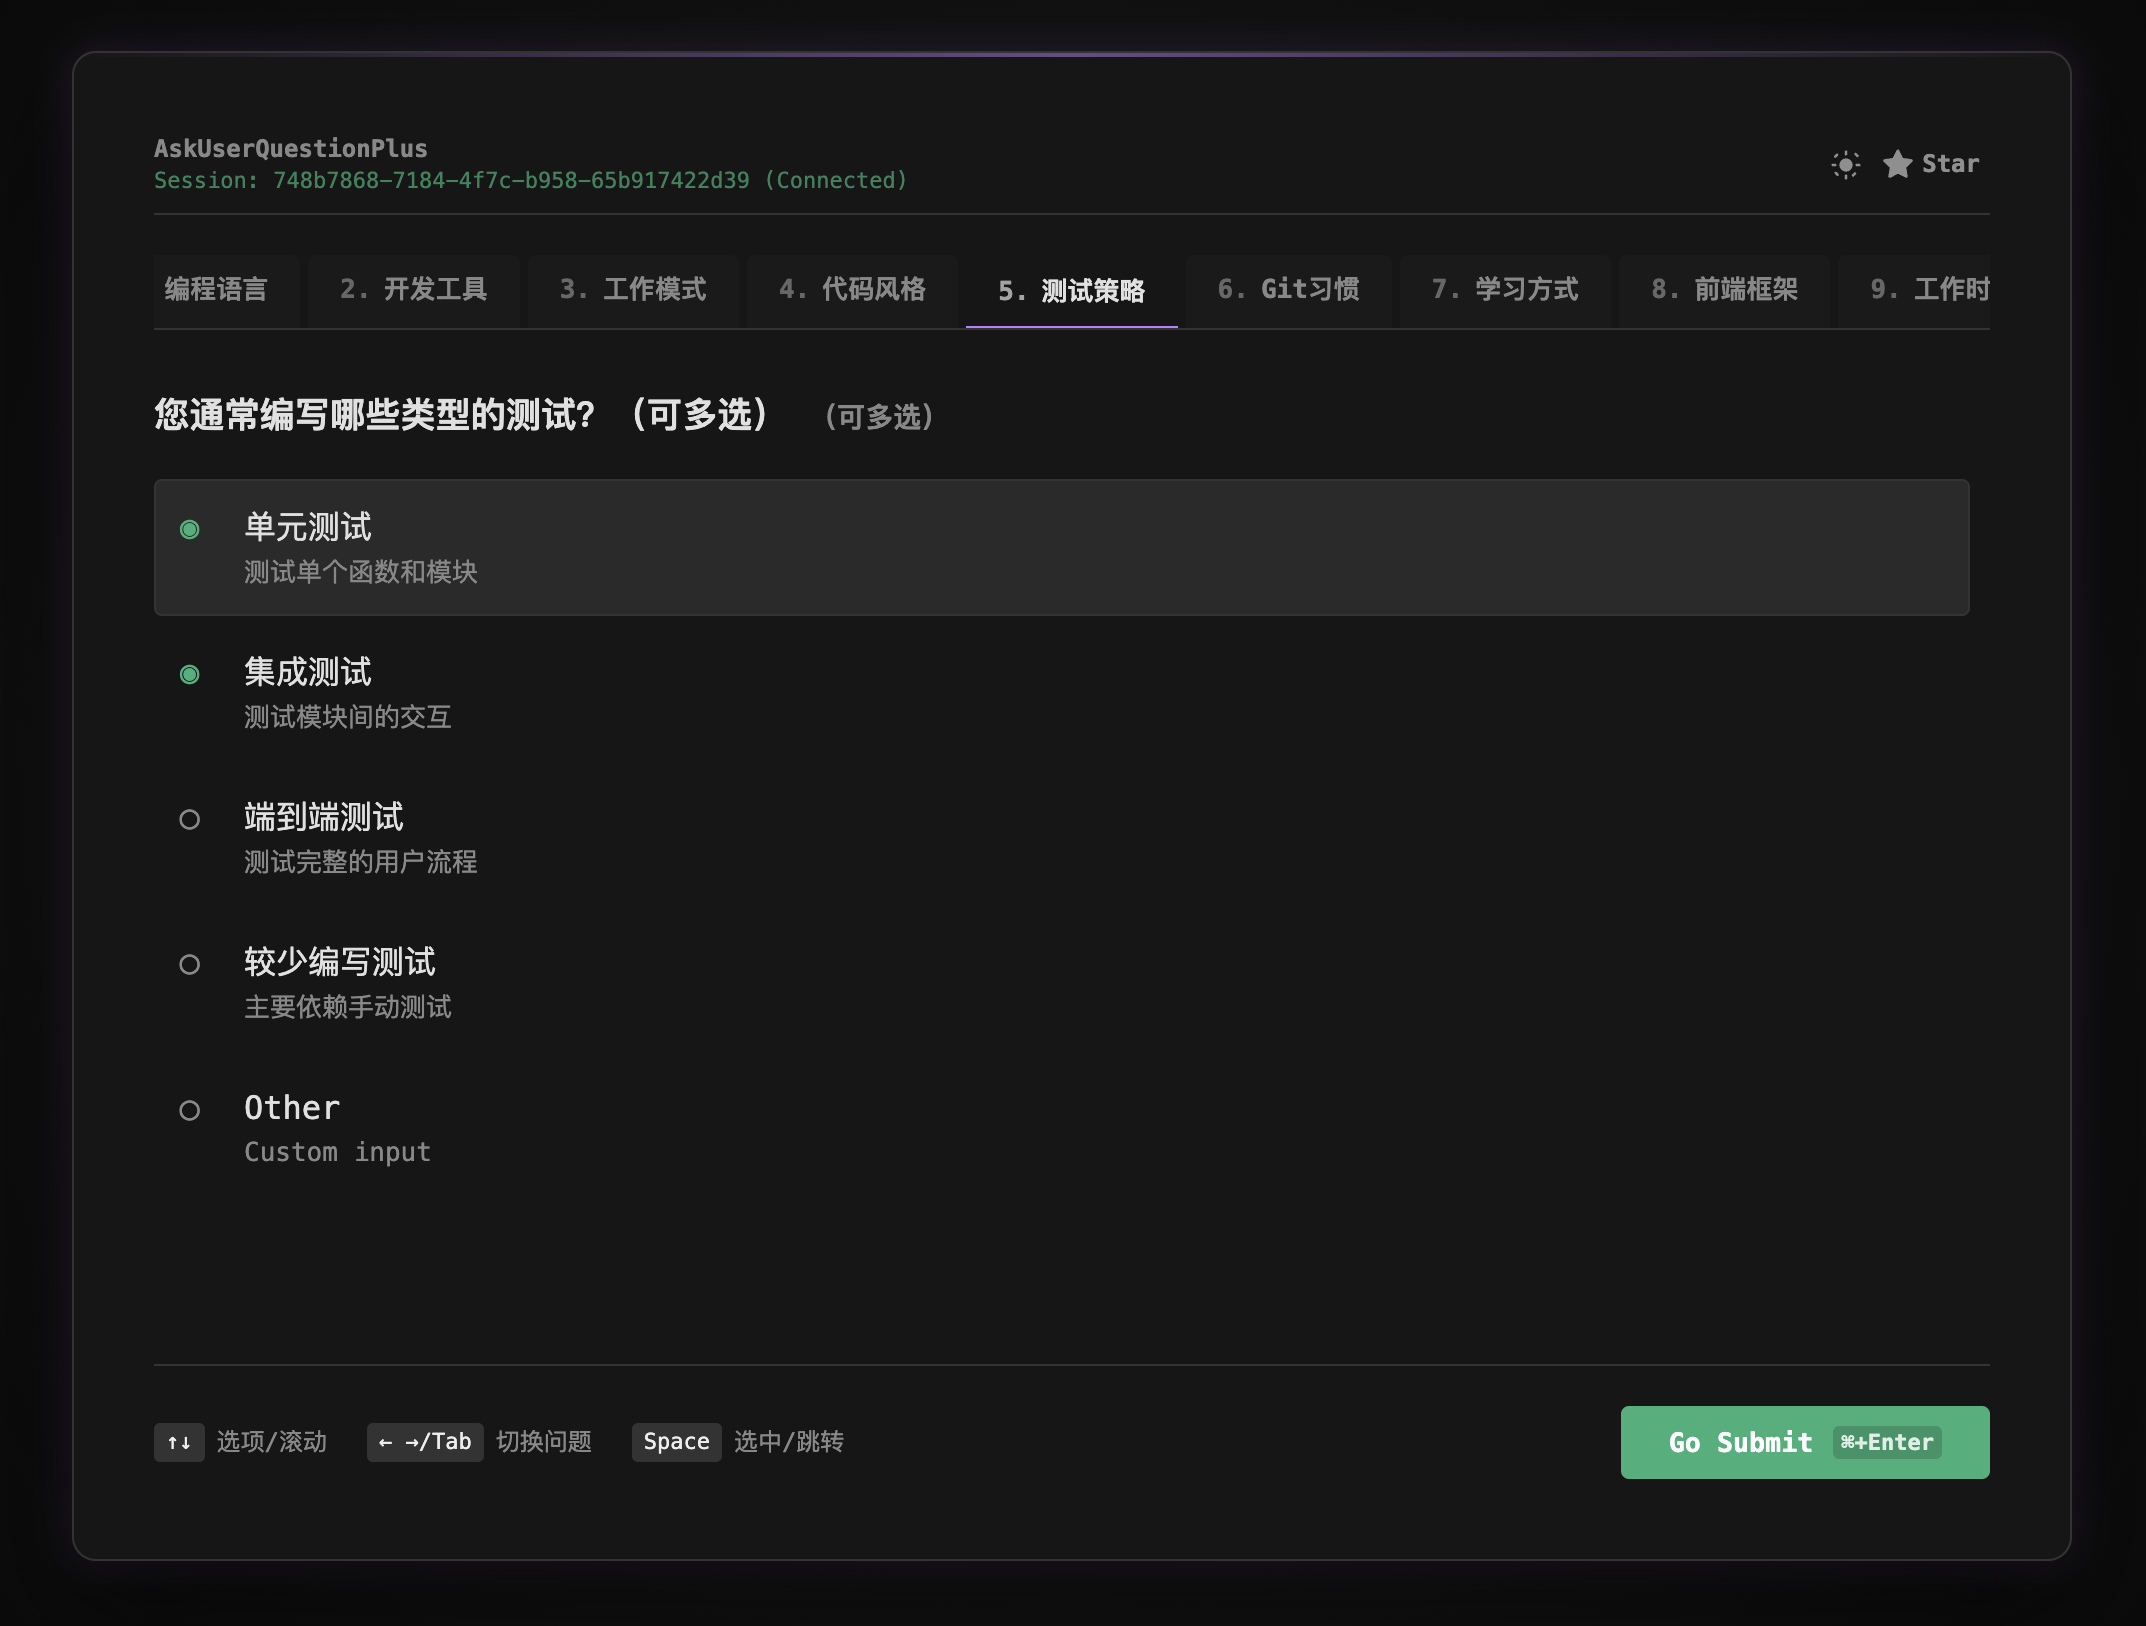
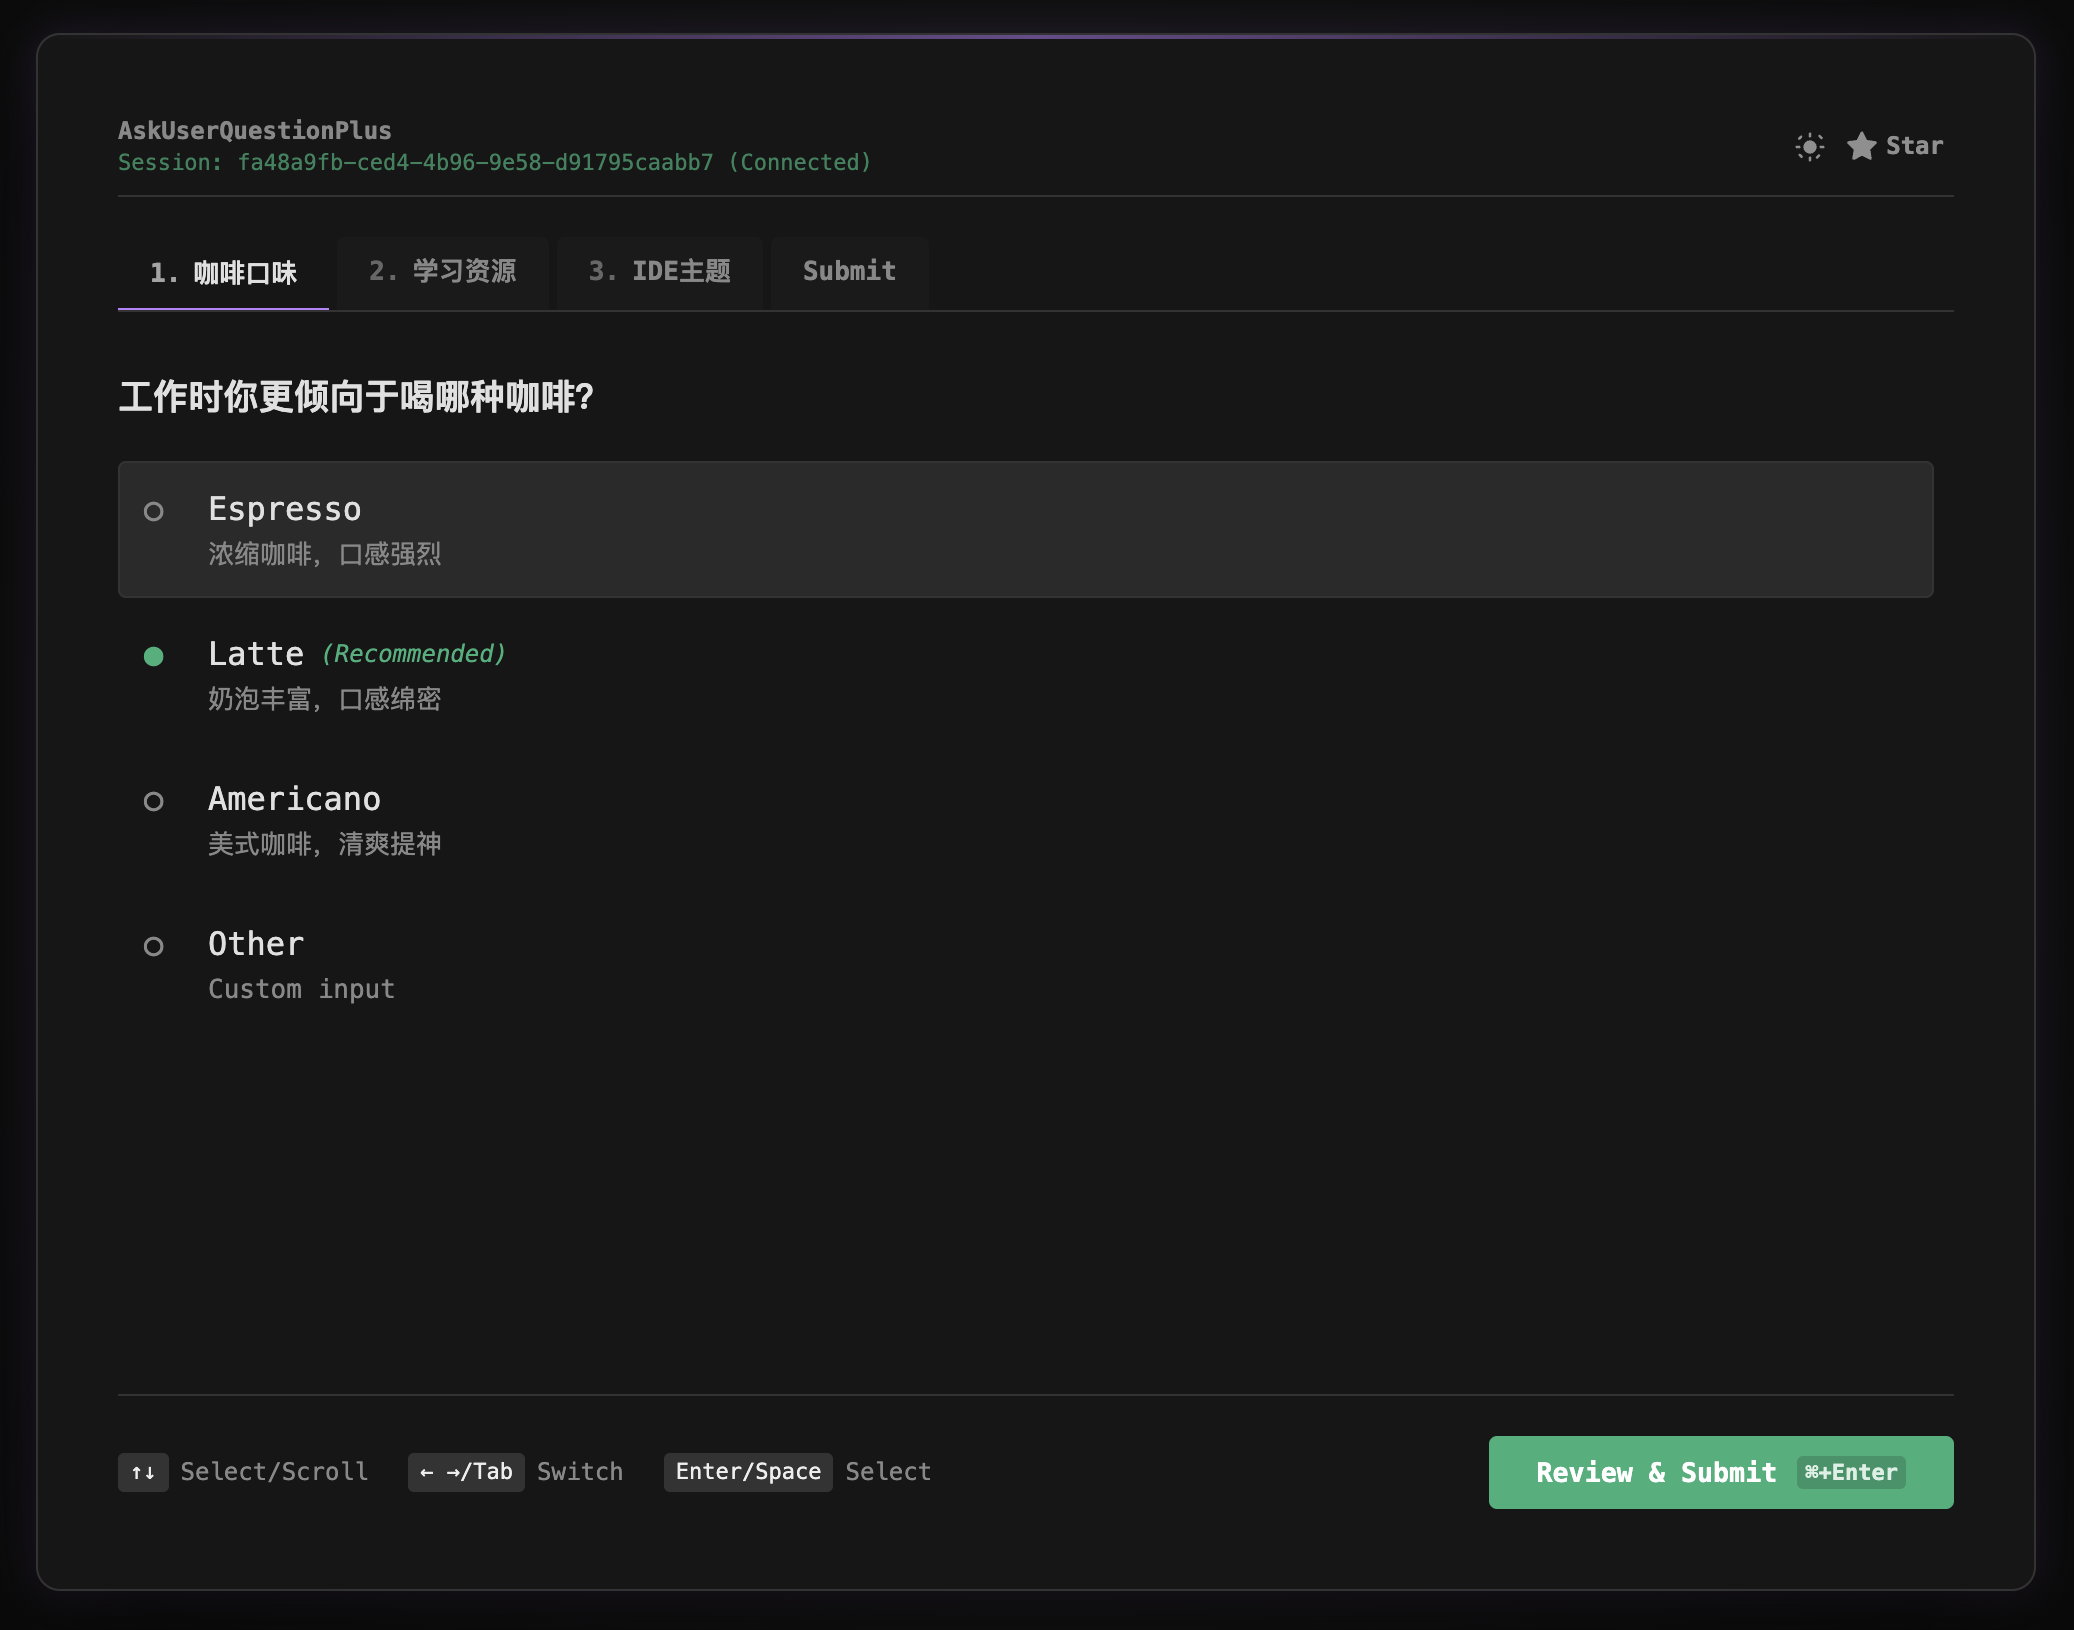
update

diff --git a/public/index.html b/public/index.html
@@ -1,5 +1,5 @@
 <!DOCTYPE html>
-<html lang="zh-CN">
+<html lang="en">
   <head>
     <meta charset="UTF-8" />
     <meta name="viewport" content="width=device-width, initial-scale=1.0" />
@@ -545,7 +545,7 @@
 
           <!-- GitHub Star -->
           <a
-            href="https://github.com/changjunjie/ask-user-question-plus"
+            href="https://github.com/JoJoJotarou/AskUserQuestionPlus"
             target="_blank"
             class="icon-btn"
             title="Star on GitHub"
@@ -575,10 +575,10 @@
       <div class="footer">
         <div class="key-hints">
           <div class="key-hint-item">
-            <span class="key-tag">↑↓</span> 选项/滚动
+            <span class="key-tag">↑↓</span> Select/Scroll
           </div>
           <div class="key-hint-item">
-            <span class="key-tag">← →/Tab</span> 切换问题
+            <span class="key-tag">← →/Tab</span> Switch
           </div>
           <div class="key-hint-item">
             <span class="key-tag">Enter/Space</span>
@@ -586,7 +586,7 @@
           </div>
         </div>
         <button class="submit-btn" id="submit-all" disabled>
-          Go Submit
+          Review & Submit
           <span class="submit-shortcut" id="submit-shortcut-text">⌘+Enter</span>
         </button>
       </div>
@@ -799,7 +799,7 @@
                                 ${opt.label}
                                 ${
                                   opt.recommended
-                                    ? '<span class="recommended-tag">（推荐）</span>'
+                                    ? '<span class="recommended-tag">(Recommended)</span>'
                                     : ""
                                 }
                             </div>
@@ -833,7 +833,7 @@
                     <div class="question-header">
                         <span class="q-text">${q.text}${
           q.type === "multiple"
-            ? ' <span style="color:var(--dim-color); font-size:0.8em">（可多选）</span>'
+            ? ' <span style="color:var(--dim-color); font-size:0.8em">(Multi-select)</span>'
             : ""
         }</span>
                     </div>
@@ -875,7 +875,7 @@
 
           if (q.type === "single") {
             if (!ans.value) {
-              error = "未选择答案";
+              error = "No answer selected";
             } else {
               const opt = [
                 ...q.options,
@@ -885,7 +885,7 @@
                 displayValue = opt.label;
                 if (opt.isOther) {
                   if (!ans.otherText.trim()) {
-                    error = "请填写自定义内容";
+                    error = "Please provide custom input";
                     displayValue += ": [Empty]";
                   } else {
                     displayValue += `: ${ans.otherText}`;
@@ -895,7 +895,7 @@
             }
           } else {
             if (!ans.values || ans.values.length === 0) {
-              error = "请至少选择一项";
+              error = "Please select at least one option";
             } else {
               displayValue = ans.values
                 .map((v) => {
@@ -907,7 +907,7 @@
                   let label = opt.label;
                   if (opt.isOther) {
                     if (!ans.otherText.trim()) {
-                      error = "请填写自定义内容";
+                      error = "Please provide custom input";
                       label += ": [Empty]";
                     } else {
                       label += `: ${ans.otherText}`;
@@ -939,7 +939,7 @@
         container.innerHTML = `
                 <div class="question-block">
                     <div class="question-header">
-                        <span class="q-text">请检查您的回答，确认无误后提交！</span>
+                        <span class="q-text">Please review your answers before submitting!</span>
                     </div>
                     ${summaryHtml}
                 </div>
@@ -961,13 +961,13 @@
         const shortcutText = isMac ? "⌘+Enter" : "Ctrl+Enter";
 
         if (isReview) {
-          submitBtn.innerHTML = `Submt Answers <span class="submit-shortcut" id="submit-shortcut-text">${shortcutText}</span>`;
+          submitBtn.innerHTML = `Submit Answers <span class="submit-shortcut" id="submit-shortcut-text">${shortcutText}</span>`;
           submitBtn.disabled = !isValid;
-          if (spaceHint) spaceHint.textContent = "跳转";
+          if (spaceHint) spaceHint.textContent = "Jump";
         } else {
-          submitBtn.innerHTML = `Go Submit <span class="submit-shortcut" id="submit-shortcut-text">${shortcutText}</span>`;
+          submitBtn.innerHTML = `Review & Submit <span class="submit-shortcut" id="submit-shortcut-text">${shortcutText}</span>`;
           submitBtn.disabled = QUESTIONS_DATA.length === 0;
-          if (spaceHint) spaceHint.textContent = "选择";
+          if (spaceHint) spaceHint.textContent = "Select";
         }
       }
 
@@ -1091,7 +1091,7 @@
           submitBtn.disabled = true;
 
           setTimeout(() => {
-            alert("提交成功！即将关闭...");
+            alert("Submitted successfully! Closing...");
             submitBtn.textContent = "DONE";
             window.close();
             document.body.innerHTML =

diff --git a/src/mcp-server.ts b/src/mcp-server.ts
@@ -35,43 +35,43 @@ export class MCPServerService {
       "ask_user_question_plus",
       {
         description:
-          "一个基于 MCP 的用户交互工具，用于向用户提出结构化问题并收集反馈。该工具支持单选、多选类型的问题，允许标记推荐选项，并支持任意数量的问题与答案选项。前端会自动为每个问题添加 'Other'（自定义输入）选项，适用于复杂配置与决策流程。",
+          "An MCP-based user interaction tool for asking structured questions and collecting feedback. It supports single-choice and multiple-choice questions, marking recommended options, and flexible numbers of questions and options. An 'Other' (custom input) option is automatically added to each question, making it suitable for complex configuration and decision-making workflows.",
         inputSchema: {
           questions: z
             .array(
               z.object({
-                id: z.string().describe("问题唯一标识"),
+                id: z.string().describe("Unique identifier for the question"),
                 header: z
                   .string()
                   .max(12)
-                  .describe("问题标题（最多 12 个字符）"),
-                text: z.string().describe("问题文本"),
+                  .describe("Short header for the question tab (max 12 chars)"),
+                text: z.string().describe("Main text of the question"),
                 type: z
                   .enum(["single", "multiple"])
-                  .describe("问题类型：single（单选）或 multiple（多选）"),
+                  .describe("Question type: 'single' or 'multiple'"),
                 options: z
                   .array(
                     z.object({
-                      value: z.string().describe("选项值"),
-                      label: z.string().describe("选项标签"),
+                      value: z.string().describe("Technical value of the option"),
+                      label: z.string().describe("Display label for the option"),
                       description: z
                         .string()
                         .optional()
-                        .describe("选项描述（可选）"),
+                        .describe("Additional description for the option"),
                       recommended: z
                         .boolean()
                         .optional()
-                        .describe("是否为推荐选项（可选）"),
+                        .describe("Whether this is a recommended option"),
                     })
                   )
                   .describe(
-                    "选项列表（不限数量）。注意：前端会自动添加 'Other'（自定义输入）选项，用户可自定义输入。"
+                    "List of options. Note: An 'Other' option is automatically added for custom user input."
                   ),
               })
             )
             .min(1)
             .max(20)
-            .describe("问题列表（最多可支持 20 个问题）"),
+            .describe("List of questions (up to 20 items)"),
         },
       },
       async ({ questions }) => {
